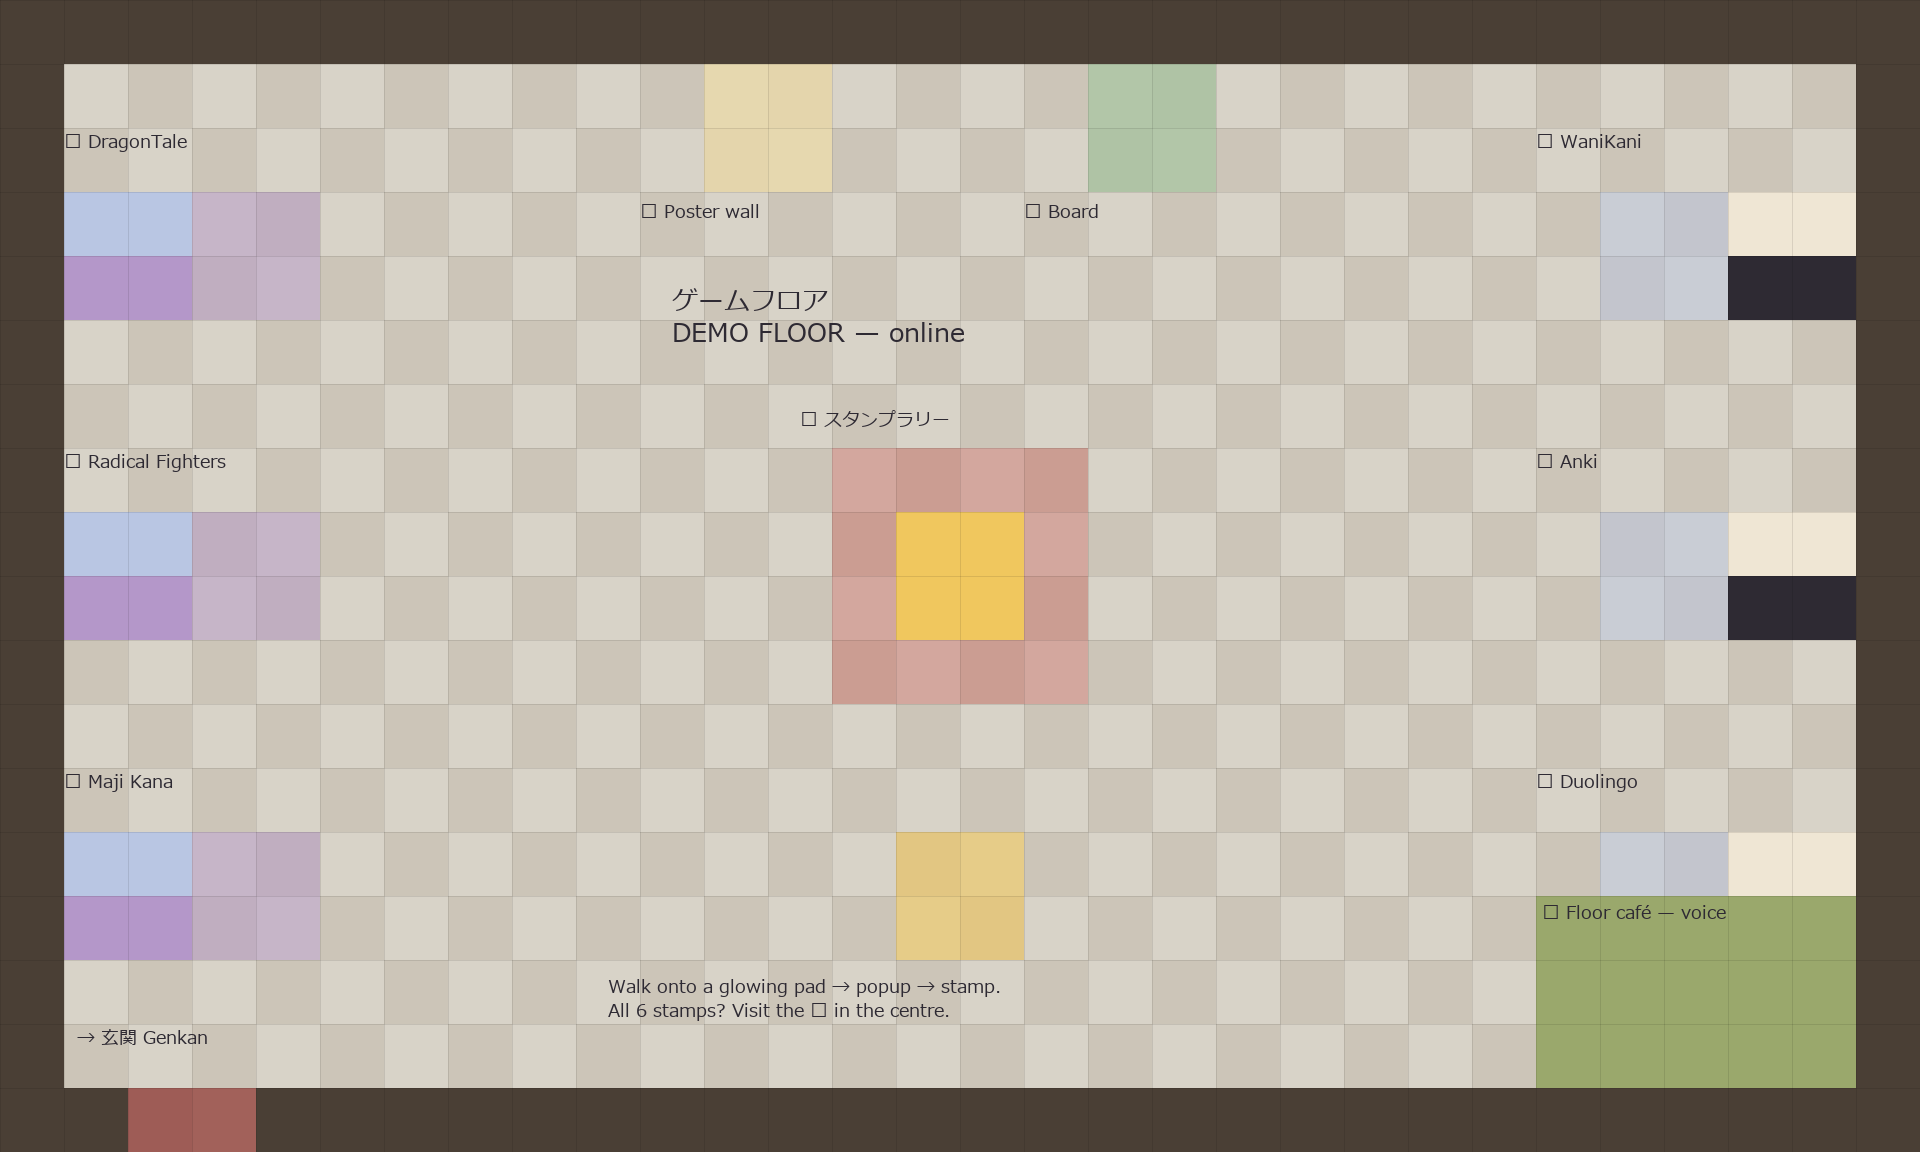
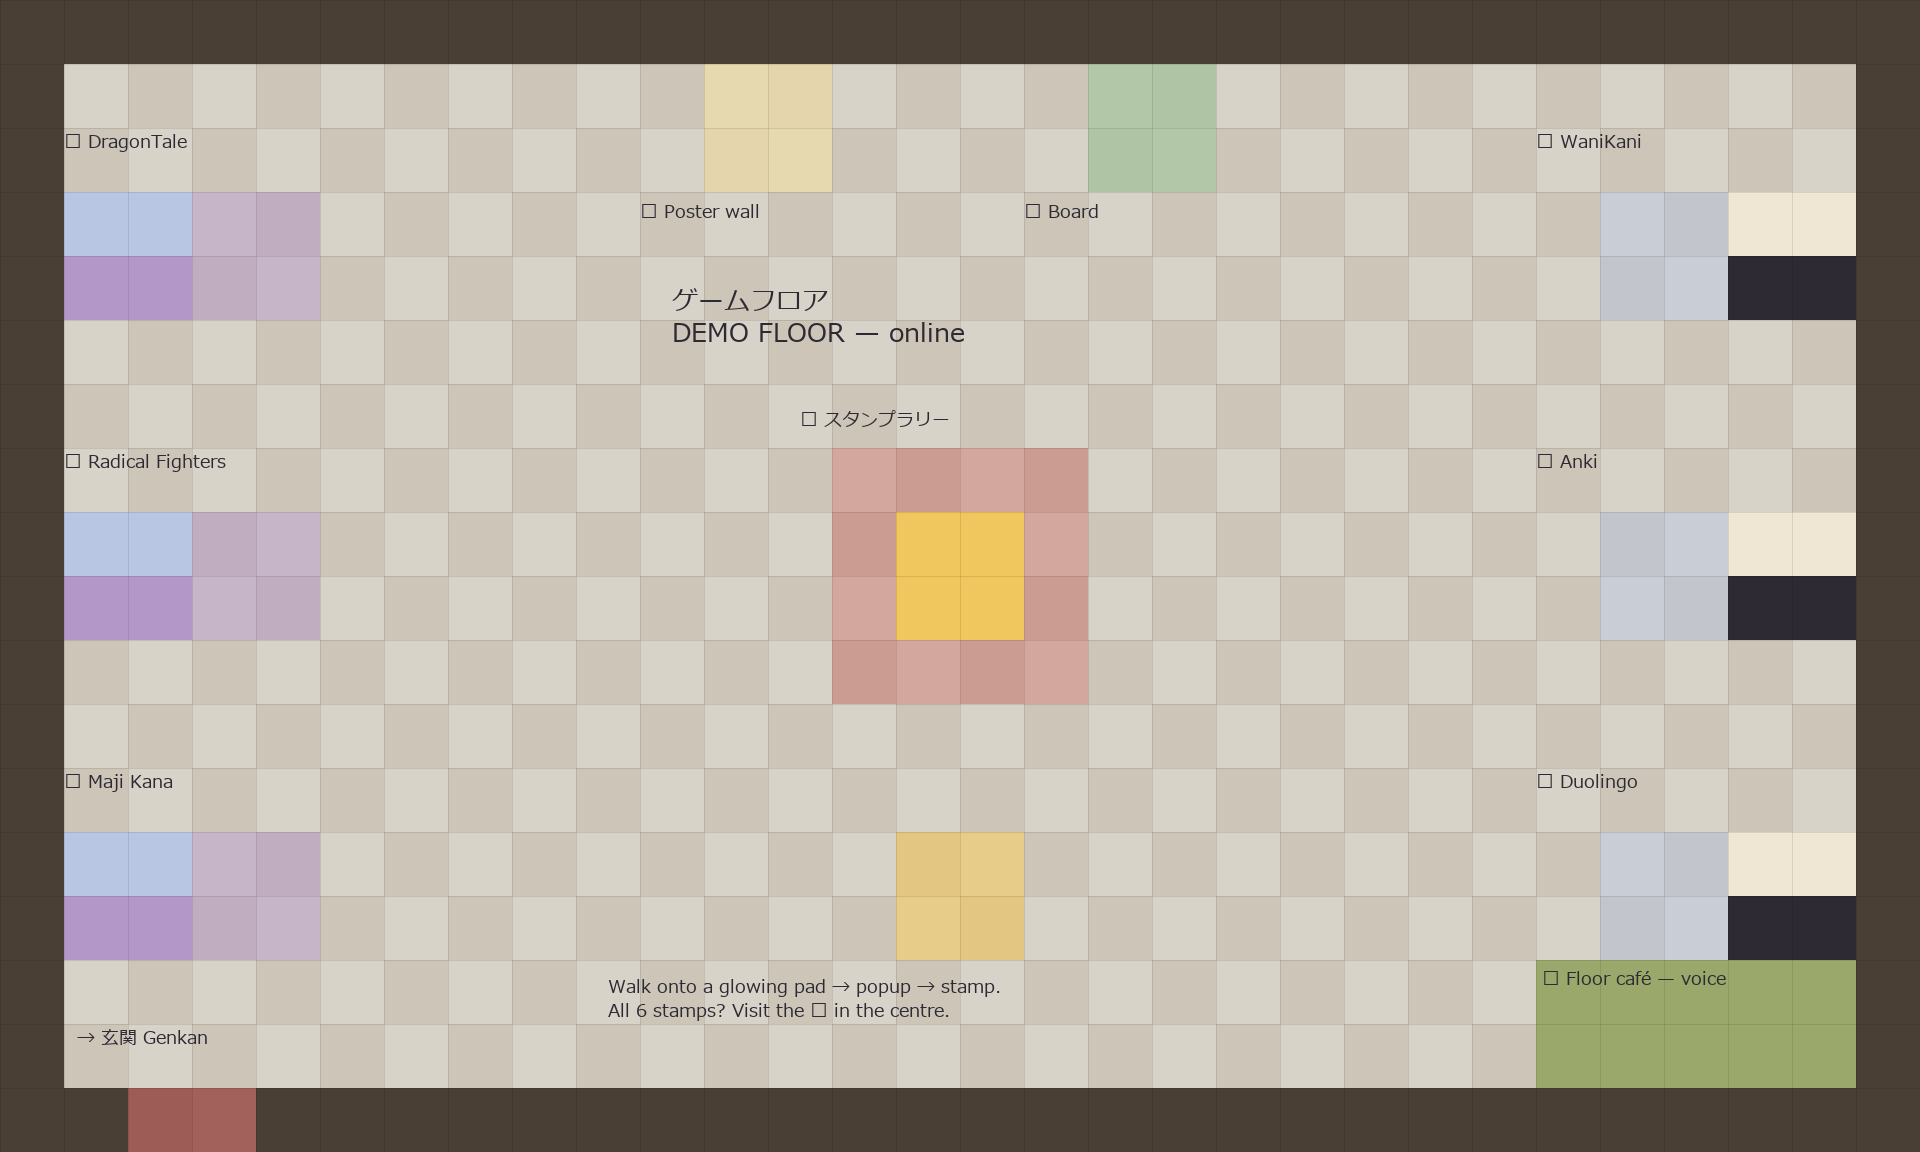
Fix cafe zone overlapping the Duolingo pad; clean popup lifecycle
Walking onto the Duolingo station's lower row also joined the jitsi cafe
(zones shared row 14) - cafe moved to rows 15-16. Popup close now clears
the stale reference so zone-leave no longer throws "Could not find popup".
Both found in a live walkthrough on play.workadventu.re.

Changed region(s): [[0.7812, 0.75, 0.9688, 0.875]]

diff --git a/scripts/floor/floor.js b/scripts/floor/floor.js
@@ -51,6 +51,7 @@ function say(m) { try { WA.chat.sendChatMessage(m, GUIDE); } catch (e) { console
 function onEnter(layer, fn) { try { WA.room.onEnterLayer(layer).subscribe(fn); } catch (e) { console.warn("[floor]", layer, e); } }
 function onLeave(layer, fn) { try { WA.room.onLeaveLayer(layer).subscribe(fn); } catch (e) { console.warn("[floor]", layer, e); } }
 function closeP() { if (openP) { try { openP.close(); } catch (e) {} openP = null; } }
+function done(p) { try { p.close(); } catch (e) {} openP = null; }
 function popup(anchor, msg, buttons) {
   closeP();
   try { openP = WA.ui.openPopup(anchor, msg, buttons); }
@@ -113,11 +114,11 @@ WA.onInit().then(function () {
       var txt = s.name + "\n" + (s.blurb || "This cabinet isn't wired to an online build yet — stamped visits still count.") + (s.prompt ? "\n\nTry: " + s.prompt : "");
       var buttons = [];
       if (s.url) {
-        buttons.push({ label: "▶ Open", className: "primary", callback: function (p) { openUrl(s.url, s.embed); stamp(s); p.close(); } });
+        buttons.push({ label: "▶ Open", className: "primary", callback: function (p) { openUrl(s.url, s.embed); stamp(s); done(p); } });
       } else {
-        buttons.push({ label: "Stamp ✔", className: "primary", callback: function (p) { stamp(s); p.close(); } });
+        buttons.push({ label: "Stamp ✔", className: "primary", callback: function (p) { stamp(s); done(p); } });
       }
-      buttons.push({ label: "Later", className: "normal", callback: function (p) { p.close(); } });
+      buttons.push({ label: "Later", className: "normal", callback: function (p) { done(p); } });
       popup("popup_" + s.slug, txt, buttons);
     });
     onLeave(zone, closeP);
@@ -128,26 +129,26 @@ WA.onInit().then(function () {
     var msg = done
       ? "🏆 Stamp rally complete — thanks for touring the whole floor!\nFinishers so far: " + (finishers() || "—") + "\nLeave a note on the 📌 board so the in-person crowd hears from you."
       : "Stamp rally: " + count() + "/" + total() + "\n\n" + progressLines();
-    popup("popup_trophy", msg, [{ label: "OK", className: "normal", callback: function (p) { p.close(); } }]);
+    popup("popup_trophy", msg, [{ label: "OK", className: "normal", callback: function (p) { done(p); } }]);
   });
   onLeave("zone_trophy", closeP);
 
   onEnter("zone_poster", function () {
     if (CONFIG.posterUrl) {
       popup("popup_poster", "The worlds poster and the session-1 card decks live here.", [
-        { label: "▶ Open", className: "primary", callback: function (p) { openUrl(CONFIG.posterUrl, false); p.close(); } },
-        { label: "Later", className: "normal", callback: function (p) { p.close(); } }]);
+        { label: "▶ Open", className: "primary", callback: function (p) { openUrl(CONFIG.posterUrl, false); done(p); } },
+        { label: "Later", className: "normal", callback: function (p) { done(p); } }]);
     } else {
       popup("popup_poster", "Poster wall — materials link not wired yet (CONFIG.posterUrl).", [
-        { label: "OK", className: "normal", callback: function (p) { p.close(); } }]);
+        { label: "OK", className: "normal", callback: function (p) { done(p); } }]);
     }
   });
   onLeave("zone_poster", closeP);
 
   onEnter("zone_board", function () {
     popup("popup_board", "掲示板 — the common board. Leave a line: what you tried, what surprised you.", [
-      { label: "▶ Open board", className: "primary", callback: function (p) { openUrl(CONFIG.boardUrl, false); p.close(); } },
-      { label: "Later", className: "normal", callback: function (p) { p.close(); } }]);
+      { label: "▶ Open board", className: "primary", callback: function (p) { openUrl(CONFIG.boardUrl, false); done(p); } },
+      { label: "Later", className: "normal", callback: function (p) { done(p); } }]);
   });
   onLeave("zone_board", closeP);
 

diff --git a/gen_floor_maps.py b/gen_floor_maps.py
@@ -132,8 +132,8 @@ r.label(12.5, 6.35, 7, "🏆 スタンプラリー")
 r.anchor("popup_trophy", 13, 6, w=4)
 
 # ---------------- cafe corner (voice) ----------------
-r.zone("zone_cafe", 24, 14, 28, 16, TATAMI, {"jitsiRoom": "kc-floor-cafe"}, opacity=1.0)
-r.label(24.1, 14.05, 6, "🍵 Floor café — voice")
+r.zone("zone_cafe", 24, 15, 28, 16, TATAMI, {"jitsiRoom": "kc-floor-cafe"}, opacity=1.0)
+r.label(24.1, 15.08, 6, "🍵 Floor café — voice")
 
 # ---------------- exit to genkan (bottom-left) ----------------
 for x in range(2, 4): walls[17*W+x] = 0
